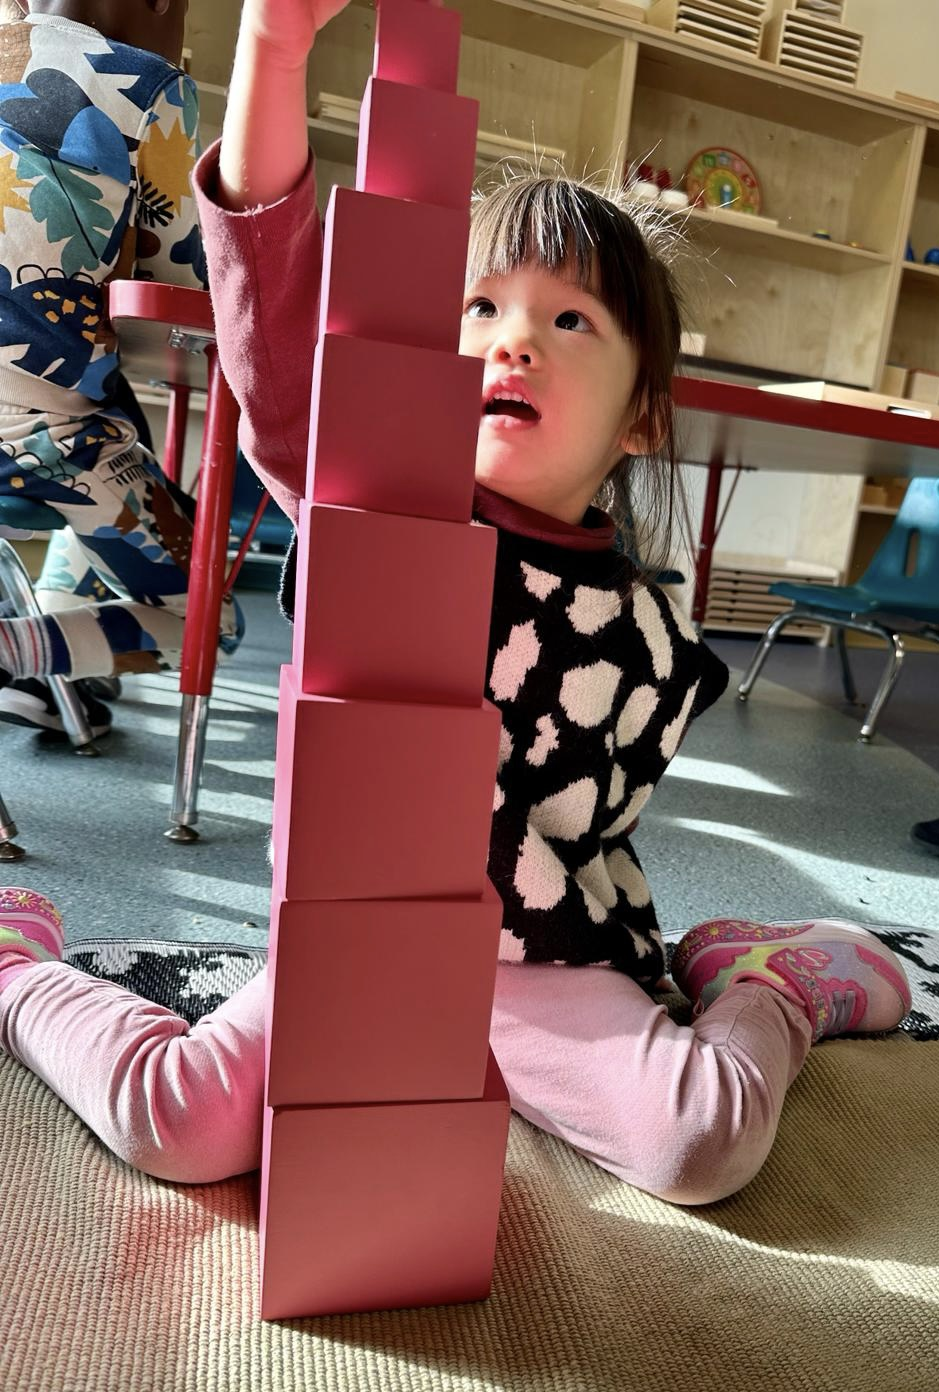
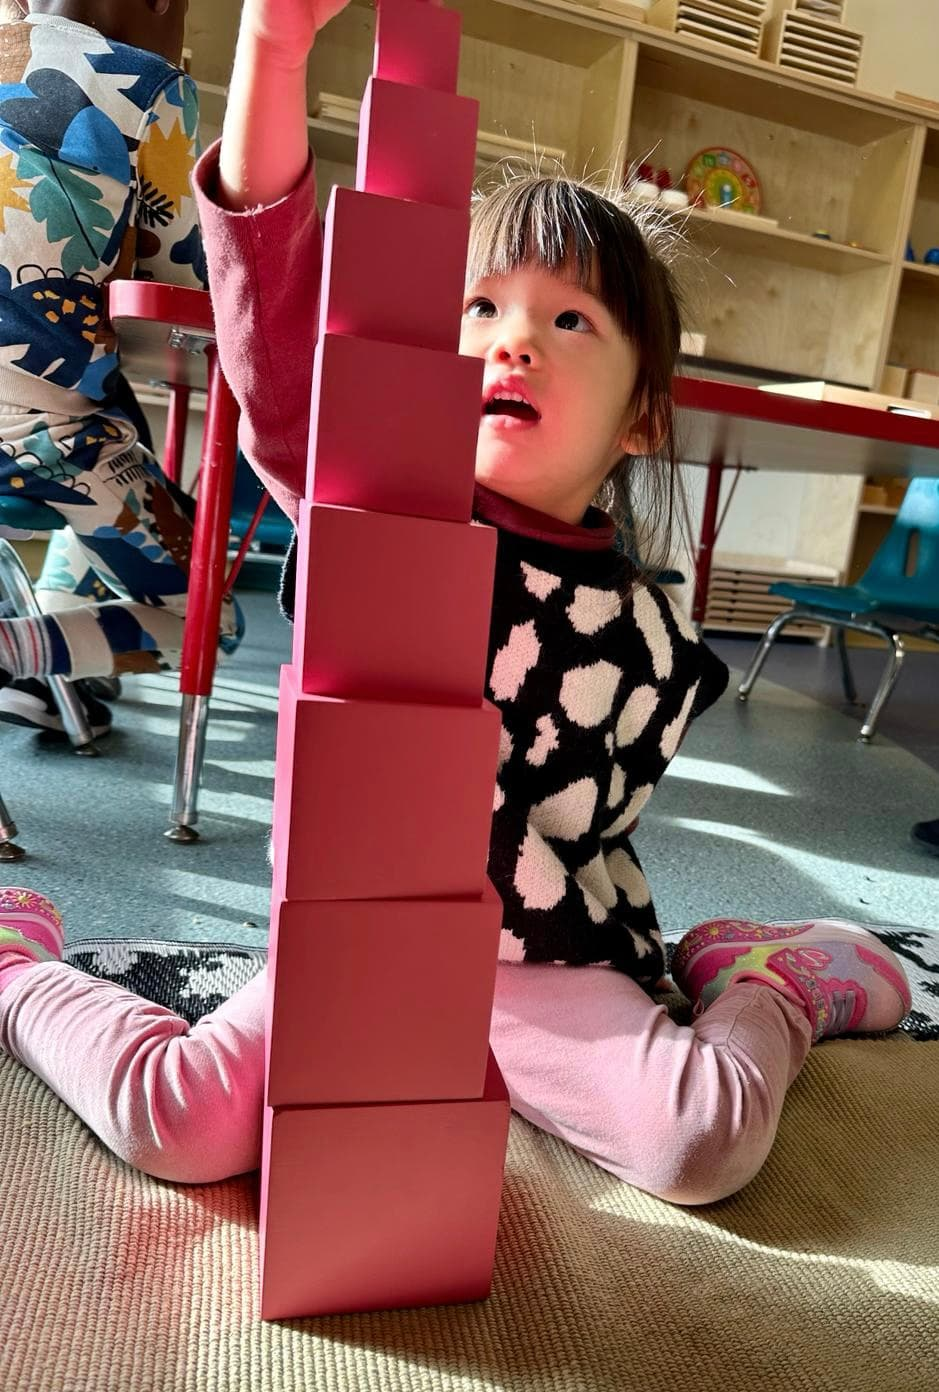
Added compressed images to Montessori page

diff --git a/montessori.html b/montessori.html
@@ -105,10 +105,6 @@
 
         <h3>Unlocking Your Child's Potential with Montessori Education</h3>
 
-        <figure class="lhma-children">
-          <img src="./assets/images/lhma-children/girl-stacking-blocks.jpg" alt="A girl excitedly creating a tall structure of stacked red cylinders.">
-        </figure>
-
         <p>At our daycares, we're committed to offering a holistic educational experience that nurtures your child's growth and curiosity. The Montessori method is at the heart of what we do, focusing on five key elements that play a pivotal role in your child's development. Let's explore these elements together:</p>
 
         <figure class="table-bottle-plates">
@@ -132,8 +128,12 @@
         <p>Sensory development is a core component of Montessori education. It emphasizes the importance of engaging a child's senses in the learning process. Montessori classrooms are equipped with materials that stimulate the senses of touch, sight, sound, taste, and smell.</p>
 
         <figure class="lhma-children">
-          <img src="./assets/images/lhma-children/girl-carving-pumpkin.JPG" alt="A girl engaging in Montessori sensory play by carving a pumpking (with educator supervision).">
+          <img src="./assets/images/lhma-children/girl-stacking-blocks.jpg" alt="A girl excitedly creating a tall structure of stacked red cylinders.">
         </figure>
+
+        <!-- <figure class="lhma-children">
+          <img src="./assets/images/lhma-children/girl-carving-pumpkin.JPG" alt="A girl engaging in Montessori sensory play by carving a pumpking (with educator supervision).">
+        </figure> -->
 
         <p><span class="italics bold">Why Sensory Development Matters:</span> Sensory experiences help children understand and process the world around them. It promotes cognitive growth, emotional regulation, and problem-solving skills. Sensory activities engage the child's whole being, making learning more meaningful.</p>
 
